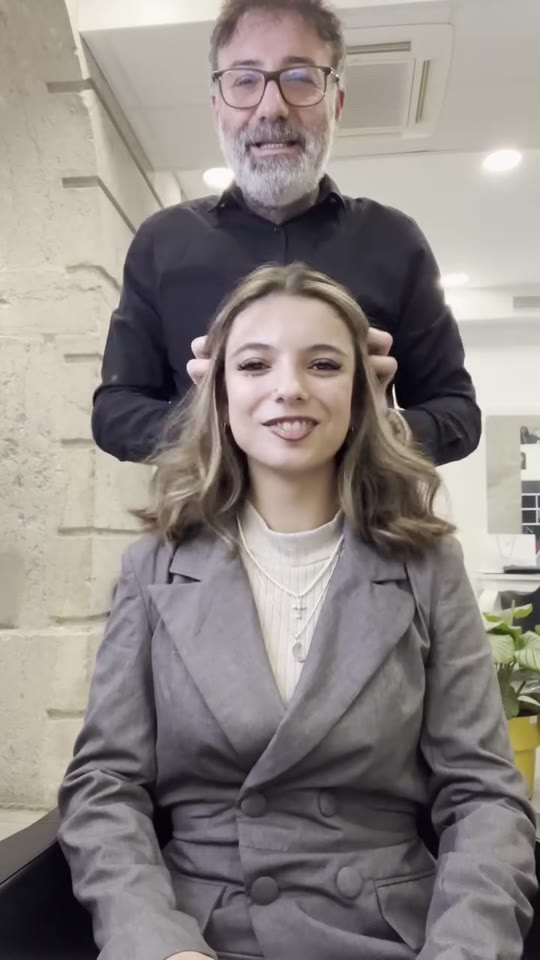
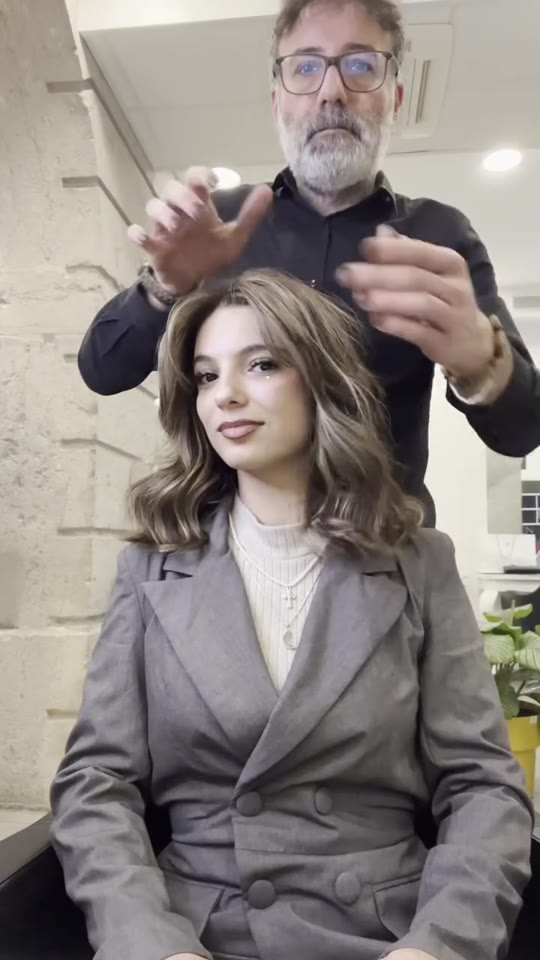
Prioritize client-selected photographs and improve authentic before-after framing

diff --git a/index.html b/index.html
@@ -2,8 +2,8 @@
 <html lang="fr"><head><meta charset="utf-8"><meta name="viewport" content="width=device-width,initial-scale=1"><meta name="robots" content="noindex,nofollow"><meta name="theme-color" content="#F7F5F0"><title>Studio Bellecour — Coiffeur à Lyon 2</title><meta name="description" content="Studio Bellecour, salon de coiffure mixte à Lyon 2. Coupes, couleurs, balayages : prestations, tarifs et rendez-vous sur Planity."><link rel="icon" href="assets/favicon.svg"><link rel="stylesheet" href="style.css"><script src="script.js" defer></script></head>
 <body><a class="skip" href="#contenu">Aller au contenu</a>
 <header class="header"><a class="brand" href="#" aria-label="Studio Bellecour, accueil">Studio Bellecour</a><button class="menu-toggle" type="button" aria-expanded="false" aria-controls="main-navigation">Menu <span class="menu-icon" aria-hidden="true"></span></button><nav id="main-navigation" aria-label="Navigation principale"><a href="#realisations">Les réalisations</a><a href="#murat">Murat</a><a href="#salon">Le salon</a><a href="#prestations">Les prestations</a><a href="#avis">Avis clients</a><a href="#contact">Contact</a></nav></header>
-<main id="contenu"><section class="hero" aria-labelledby="title"><div class="hero-copy"><p class="location">Studio Bellecour · Lyon 2</p><h1 id="title">Coiffure & couleur<br>à Bellecour.</h1><p class="intro">Couleur, coupe technique et mariage.<br>Salon femmes et hommes à Lyon 2.</p><a class="rating" href="#avis"><span aria-hidden="true">★</span> <strong>4,9/5</strong> · 892 avis sur Planity</a><a class="button hero-book" href="https://www.planity.com/studio-bellecour-69002-lyon">Prendre rendez-vous</a><p class="booking-caption">Réservation en ligne sur Planity</p></div><figure class="hero-photo hero-work"><a class="realisation-link" href="https://www.instagram.com/studio_bellecour/reel/DFfxcyAqeKJ/" aria-label="Voir cette réalisation sur Instagram"><img src="assets/realisation-accueil.jpg" width="360" height="640" alt="Cliente présentant son coiffage mi-long et ses reflets clairs au Studio Bellecour" fetchpriority="high"></a></figure></section>
-<section id="realisations" class="realisations section" aria-labelledby="work-title"><div class="section-heading"><h2 id="work-title">Réalisations au salon</h2></div><div class="work-grid"><a class="work-card" href="https://www.instagram.com/studio_bellecour/reel/DWOxvY-in0C/" aria-label="Voir la vidéo Instagram : Volume & mouvement"><figure><div class="work-image"><img src="assets/realisation-1.jpg" width="360" height="640" loading="lazy" alt="Coiffage long avec volume et mèches encadrant le visage"><span class="video-play" aria-hidden="true"><svg viewBox="0 0 24 24" fill="currentColor"><path d="m9 6 9 6-9 6Z"/></svg></span></div><figcaption><span>Volume & mouvement</span><span class="video-label">Voir la vidéo</span></figcaption></figure></a><a class="work-card" href="https://www.instagram.com/studio_bellecour/reel/DeJjcFiuilz/" aria-label="Voir la vidéo Instagram : Blond & ondulations"><figure><div class="work-image"><img src="assets/realisation-6.jpg" width="720" height="1280" loading="lazy" alt="Cheveux blonds longs et ondulés, présentés au salon avec le coiffeur"><span class="video-play" aria-hidden="true"><svg viewBox="0 0 24 24" fill="currentColor"><path d="m9 6 9 6-9 6Z"/></svg></span></div><figcaption><span>Blond & ondulations</span><span class="video-label">Voir la vidéo</span></figcaption></figure></a><a class="work-card" href="https://www.instagram.com/studio_bellecour/reel/DbLRGwOKB_G/" aria-label="Voir la vidéo Instagram : reflets bruns"><figure><div class="work-image"><img src="assets/realisation-9.jpg" width="720" height="1280" loading="lazy" alt="Coiffage long brun avec reflets et ondulations réalisé au salon"><span class="video-play" aria-hidden="true"><svg viewBox="0 0 24 24" fill="currentColor"><path d="m9 6 9 6-9 6Z"/></svg></span></div><figcaption><span>Reflets bruns</span><span class="video-label">Voir la vidéo</span></figcaption></figure></a></div><div class="transformation"><div class="transformation-heading"><h3>Avant / Après</h3><a class="text-link" href="https://www.instagram.com/studio_bellecour/reel/DFfxcyAqeKJ/">Voir la vidéo</a></div><div class="transformation-pair"><figure><img src="assets/transformation-avant.jpg" width="540" height="960" loading="lazy" alt="Avant : la cliente avec ses cheveux longs et bruns, au début de la vidéo"><figcaption>Avant</figcaption></figure><figure><img src="assets/transformation-apres.jpg" width="540" height="960" loading="lazy" alt="Après : la même cliente avec une coupe plus courte et des reflets clairs"><figcaption>Après</figcaption></figure></div></div></section><section id="murat" class="murat section" aria-labelledby="murat-title"><figure class="murat-photo"><img src="assets/murat-portrait.jpg" width="720" height="960" loading="lazy" alt="Murat assis dans un fauteuil bordeaux au salon Studio Bellecour"></figure><div class="murat-copy"><p class="section-label">Votre coiffeur</p><h2 id="murat-title">Murat</h2><p>Murat est un coiffeur chaleureux, souriant et plein d’humour. Il prend le temps de comprendre vos envies et de vous conseiller sur votre coupe ou votre couleur.</p><p>La couleur, la coupe technique et les coiffures de mariage sont au cœur du travail de Murat et de son équipe.</p></div></section><section id="salon" class="salon section" aria-labelledby="salon-title"><div class="salon-heading"><h2 id="salon-title">Le salon</h2><p>Murat et son équipe vous accueillent au rez-de-chaussée de l’hôtel de l’Europe, à proximité de la place Bellecour.</p></div><div class="gallery"><img src="assets/salon-accueil.jpg" width="1200" height="630" loading="lazy" alt="L’accueil du salon, les plantes et les arches en pierre"><img src="assets/salon-arches.jpg" width="773" height="460" loading="lazy" alt="Les postes de coiffage et la cour de l’hôtel de l’Europe"></div></section>
+<main id="contenu"><section class="hero" aria-labelledby="title"><div class="hero-copy"><p class="location">Studio Bellecour · Lyon 2</p><h1 id="title">Coiffure & couleur<br>à Bellecour.</h1><p class="intro">Couleur, coupe technique et mariage.<br>Salon femmes et hommes à Lyon 2.</p><a class="rating" href="#avis"><span aria-hidden="true">★</span> <strong>4,9/5</strong> · 892 avis sur Planity</a><a class="button hero-book" href="https://www.planity.com/studio-bellecour-69002-lyon">Prendre rendez-vous</a><p class="booking-caption">Réservation en ligne sur Planity</p></div><figure class="hero-photo hero-work"><div class="selection-crop selection-hero"><img src="assets/selection-accueil.jpg" width="716" height="840" fetchpriority="high" alt="Cliente avec de longs cheveux blonds ondulés, parmi les réalisations sélectionnées du salon"></div></figure></section>
+<section id="realisations" class="realisations section" aria-labelledby="work-title"><div class="section-heading"><h2 id="work-title">Réalisations au salon</h2></div><div class="work-grid"><figure class="work-card selection-card"><div class="selection-crop selection-blond"><img src="assets/selection-blond.jpg" width="640" height="802" loading="lazy" alt="Cliente souriante en blouse blanche, aux cheveux blonds ondulés"></div><figcaption><span>Blond & mouvement</span></figcaption></figure><a class="work-card" href="https://www.instagram.com/studio_bellecour/reel/DeJjcFiuilz/" aria-label="Voir la vidéo Instagram : Blond & ondulations"><figure><div class="work-image"><img src="assets/realisation-6.jpg" width="720" height="1280" loading="lazy" alt="Cheveux blonds longs et ondulés, présentés au salon avec le coiffeur"><span class="video-play" aria-hidden="true"><svg viewBox="0 0 24 24" fill="currentColor"><path d="m9 6 9 6-9 6Z"/></svg></span></div><figcaption><span>Blond & ondulations</span><span class="video-label">Voir la vidéo</span></figcaption></figure></a><a class="work-card" href="https://www.instagram.com/studio_bellecour/reel/DbLRGwOKB_G/" aria-label="Voir la vidéo Instagram : reflets bruns"><figure><div class="work-image"><img src="assets/realisation-9.jpg" width="720" height="1280" loading="lazy" alt="Coiffage long brun avec reflets et ondulations réalisé au salon"><span class="video-play" aria-hidden="true"><svg viewBox="0 0 24 24" fill="currentColor"><path d="m9 6 9 6-9 6Z"/></svg></span></div><figcaption><span>Reflets bruns</span><span class="video-label">Voir la vidéo</span></figcaption></figure></a></div><div class="transformation"><div class="transformation-heading"><h3>Avant / Après</h3><a class="text-link" href="https://www.instagram.com/studio_bellecour/reel/DFfxcyAqeKJ/">Voir la vidéo</a></div><div class="transformation-pair"><figure><img src="assets/transformation-avant.jpg" width="540" height="960" loading="lazy" alt="Avant : la cliente avec ses cheveux longs et bruns, au début de la vidéo"><figcaption>Avant</figcaption></figure><figure><img src="assets/transformation-apres.jpg" width="540" height="960" loading="lazy" alt="Après : la même cliente avec une coupe plus courte et des reflets clairs"><figcaption>Après</figcaption></figure></div></div></section><section id="murat" class="murat section" aria-labelledby="murat-title"><figure class="murat-photo"><img src="assets/murat-portrait.jpg" width="720" height="960" loading="lazy" alt="Murat assis dans un fauteuil bordeaux au salon Studio Bellecour"></figure><div class="murat-copy"><p class="section-label">Votre coiffeur</p><h2 id="murat-title">Murat</h2><p>Murat est un coiffeur chaleureux, souriant et plein d’humour. Il prend le temps de comprendre vos envies et de vous conseiller sur votre coupe ou votre couleur.</p><p>La couleur, la coupe technique et les coiffures de mariage sont au cœur du travail de Murat et de son équipe.</p></div></section><section id="salon" class="salon section" aria-labelledby="salon-title"><div class="salon-heading"><h2 id="salon-title">Le salon</h2><p>Murat et son équipe vous accueillent au rez-de-chaussée de l’hôtel de l’Europe, à proximité de la place Bellecour.</p></div><div class="gallery"><img src="assets/salon-accueil.jpg" width="1200" height="630" loading="lazy" alt="L’accueil du salon, les plantes et les arches en pierre"><img src="assets/salon-arches.jpg" width="773" height="460" loading="lazy" alt="Les postes de coiffage et la cour de l’hôtel de l’Europe"></div></section>
 <section id="avis" class="client-reviews section" aria-labelledby="avis-title"><div class="section-heading"><h2 id="avis-title">Avis clients</h2><a class="text-link" href="https://www.planity.com/studio-bellecour-69002-lyon">Lire les avis sur Planity<svg class="external-icon" viewBox="0 0 20 20" fill="none" stroke="currentColor" stroke-width="1.5" aria-hidden="true"><path d="M5 15 15 5M6 5h9v9"/></svg></a></div><div class="reviews-layout"><div class="review-score"><strong>4,9<span>/5</span></strong><p>Qualité de la prestation</p><p>Note globale : 4,9/5<br>892 avis sur Planity</p></div><div class="review-quotes"><figure><blockquote>« La coupe et le coiffage étaient sublimes. »</blockquote><figcaption>Extrait d’un avis Planity · 28 octobre 2026</figcaption></figure><figure><blockquote>« Mention spécial pour le brushing de star. »</blockquote><figcaption>Extrait d’un avis Planity · 14 octobre 2026</figcaption></figure></div></div></section><section id="prestations" class="services section" aria-labelledby="services-title"><div class="section-heading"><h2 id="services-title">Prestations & tarifs</h2></div><div class="tariff-grid"><details id="tarifs-coupe" class="tariff-category" open><summary><span class="category-label"><span class="category-title">Coupe & brushing</span><span class="category-description">Coupes, coiffage et longueurs</span></span><span class="category-toggle" aria-hidden="true">+</span></summary><div class="tariff-content"><div class="tariff-group"><div class="tariff-group-heading"><h3>Brushing</h3><p>Shampooing et soin inclus · 30 min</p></div><dl><div class="price-row"><dt>Cheveux courts</dt><dd>38 €</dd></div><div class="price-row"><dt>Cheveux mi-longs</dt><dd>45 €</dd></div><div class="price-row"><dt>Cheveux XXL</dt><dd>52 €</dd></div></dl></div><div class="tariff-group"><div class="tariff-group-heading"><h3>Coupe & brushing</h3><p>Shampooing et soin inclus · 45 min</p></div><dl><div class="price-row"><dt>Cheveux courts</dt><dd>57 €</dd></div><div class="price-row"><dt>Cheveux mi-longs / longs</dt><dd>67 €</dd></div><div class="price-row"><dt>Cheveux XXL</dt><dd>77 €</dd></div></dl></div><div class="tariff-group"><div class="tariff-group-heading"><h3>Frange</h3></div><dl><div class="price-row"><dt>Coupe de frange & coiffage<span>15 min</span></dt><dd>10 €</dd></div></dl></div></div></details><details id="tarifs-couleur" class="tariff-category"><summary><span class="category-label"><span class="category-title">Couleur & balayage</span><span class="category-description">Coloration, balayage, ombré et patine</span></span><span class="category-toggle" aria-hidden="true">+</span></summary><div class="tariff-content"><div class="tariff-group"><div class="tariff-group-heading"><h3>Couleur</h3></div><dl><div class="price-row"><dt>Couleur racines<span>1 h 15</span></dt><dd>dès 49 €</dd></div><div class="price-row"><dt>Couleur & brushing<span>1 h 45</span></dt><dd>dès 99 €</dd></div><div class="price-row"><dt>Couleur, coupe & brushing<span>2 h</span></dt><dd>dès 119 €</dd></div></dl></div><div class="tariff-group"><div class="tariff-group-heading"><h3>Balayage & ombré</h3><p>Coupe et brushing inclus · 3 h</p></div><dl><div class="price-row"><dt>Balayage</dt><dd>dès 280 €</dd></div><div class="price-row"><dt>Ombré hair</dt><dd>dès 280 €</dd></div></dl></div><div class="tariff-group"><div class="tariff-group-heading"><h3>Autres prestations techniques</h3></div><dl><div class="price-row"><dt>Patine<span>1 h 15</span></dt><dd>dès 45 €</dd></div><div class="price-row"><dt>Décoloration<span>1 h 30</span></dt><dd>dès 250 €</dd></div></dl></div></div></details><details id="tarifs-homme" class="tariff-category"><summary><span class="category-label"><span class="category-title">Homme</span><span class="category-description">Coupe et soin</span></span><span class="category-toggle" aria-hidden="true">+</span></summary><div class="tariff-content"><div class="tariff-group"><dl><div class="price-row"><dt>Coupe homme<span>30 min</span></dt><dd>33 €</dd></div><div class="price-row"><dt>Coupe & soin · cheveux longs<span>30 min</span></dt><dd>38 €</dd></div></dl></div></div></details><details id="tarifs-soins" class="tariff-category"><summary><span class="category-label"><span class="category-title">Soins</span><span class="category-description">À ajouter à votre prestation</span></span><span class="category-toggle" aria-hidden="true">+</span></summary><div class="tariff-content"><div class="tariff-group"><dl><div class="price-row"><dt>Soin profond Redken<span>45 min</span></dt><dd>dès 50 €</dd></div><div class="price-row"><dt>Soin brillance<span>5 min</span></dt><dd>10 €</dd></div></dl></div></div></details><details id="tarifs-etudiants" class="tariff-category"><summary><span class="category-label"><span class="category-title">Étudiants</span><span class="category-description">Moins de 25 ans</span></span><span class="category-toggle" aria-hidden="true">+</span></summary><div class="tariff-content"><div class="tariff-group"><div class="tariff-group-heading"><h3>Coupes homme</h3><p>30 min</p></div><dl><div class="price-row"><dt>Coupe homme</dt><dd>30 €</dd></div><div class="price-row"><dt>Coupe & soin · cheveux longs</dt><dd>34 €</dd></div></dl></div><div class="tariff-group"><div class="tariff-group-heading"><h3>Coupe & brushing</h3><p>Shampooing et soin inclus · 45 min</p></div><dl><div class="price-row"><dt>Cheveux courts</dt><dd>50 €</dd></div><div class="price-row"><dt>Cheveux mi-longs / longs</dt><dd>60 €</dd></div><div class="price-row"><dt>Cheveux XXL</dt><dd>70 €</dd></div></dl></div></div></details><details id="tarifs-enfants" class="tariff-category"><summary><span class="category-label"><span class="category-title">Enfants</span><span class="category-description">Tarifs selon l’âge</span></span><span class="category-toggle" aria-hidden="true">+</span></summary><div class="tariff-content"><div class="tariff-group"><div class="tariff-group-heading"><p>30 min</p></div><dl><div class="price-row"><dt>Coupe fille<span>Moins de 10 ans</span></dt><dd>35 €</dd></div><div class="price-row"><dt>Coupe garçon<span>Moins de 10 ans</span></dt><dd>25 €</dd></div><div class="price-row"><dt>Coupe garçon<span>Moins de 16 ans</span></dt><dd>28 €</dd></div></dl></div></div></details><details id="tarifs-evenements" class="tariff-category"><summary><span class="category-label"><span class="category-title">Coiffures événement</span><span class="category-description">Coiffage et mariage</span></span><span class="category-toggle" aria-hidden="true">+</span></summary><div class="tariff-content"><div class="tariff-group"><dl><div class="price-row"><dt>Chignon mariage<span>2 h</span></dt><dd>250 €</dd></div><div class="price-row"><dt>Coiffure événement<span>1 h</span></dt><dd>85 €</dd></div></dl></div></div></details><details id="tarifs-extensions" class="tariff-category"><summary><span class="category-label"><span class="category-title">Extensions</span><span class="category-description">Sur devis</span></span><span class="category-toggle" aria-hidden="true">+</span></summary><div class="tariff-content"><div class="tariff-group"><dl><div class="price-row"><dt>Extensions<span>30 min</span></dt><dd>Sur devis</dd></div></dl></div></div></details></div></section>
 <section id="contact" class="contact section" aria-labelledby="contact-title"><div class="contact-intro"><p class="section-label">Studio Bellecour · Lyon 2</p><h2 id="contact-title">Rendez-vous & contact</h2><address>1 rue Colonel Chambonnet<br>69002 Lyon</address></div><div class="contact-actions"><div class="booking-card"><h3>Réserver au salon</h3><p>Choisissez votre prestation et votre créneau sur Planity.</p><a class="button final-book" href="https://www.planity.com/studio-bellecour-69002-lyon">Prendre rendez-vous</a></div><div class="contact-links"><a class="contact-link" href="tel:+33478820581"><svg viewBox="0 0 24 24" fill="none" stroke="currentColor" stroke-width="1.5" aria-hidden="true"><path d="M7 3H4a1 1 0 0 0-1 1c0 9.4 7.6 17 17 17a1 1 0 0 0 1-1v-3l-5-2-2 2a13 13 0 0 1-7-7l2-2-2-5Z"/></svg><span><strong>Appeler le salon</strong><span>04 78 82 05 81</span></span></a><a class="contact-link" href="https://www.instagram.com/studio_bellecour/"><svg viewBox="0 0 24 24" fill="none" stroke="currentColor" stroke-width="1.5" aria-hidden="true"><rect x="3" y="3" width="18" height="18" rx="5"/><circle cx="12" cy="12" r="4"/><circle cx="17.5" cy="6.5" r=".8" fill="currentColor" stroke="none"/></svg><span><strong>Instagram</strong><span>@studio_bellecour</span></span></a><a class="contact-link" href="https://www.google.com/maps/dir/?api=1&destination=Studio+Bellecour+1+Rue+Colonel+Chambonnet+69002+Lyon"><svg viewBox="0 0 24 24" fill="none" stroke="currentColor" stroke-width="1.5" aria-hidden="true"><path d="M19 10c0 5-7 11-7 11S5 15 5 10a7 7 0 1 1 14 0Z"/><circle cx="12" cy="10" r="2.5"/></svg><span><strong>Itinéraire</strong><span>Ouvrir dans Google Maps</span></span></a></div></div></section></main>
 <footer><a class="brand" href="#">Studio Bellecour</a><button id="legal-open" type="button">À propos de cet aperçu</button></footer>

diff --git a/style.css b/style.css
@@ -28,3 +28,8 @@
 .hero-work .realisation-link{display:block;border-radius:50% 50% 4px 4px / 38% 38% 4px 4px;overflow:hidden}.hero-work img{border-radius:0;object-position:50% 45%}@media(max-width:800px){.hero-work .realisation-link{border-radius:50% 50% 4px 4px / 38% 38% 4px 4px}.hero-work img{border-radius:0;object-position:50% 45%}}
 
 .transformation{max-width:640px;margin:48px auto 0}.transformation-heading{display:flex;justify-content:space-between;align-items:center;gap:24px;margin-bottom:20px}.transformation-heading h3{font:28px/1.3 Georgia,serif;letter-spacing:-.02em}.transformation-pair{display:grid;grid-template-columns:minmax(0,1fr) minmax(0,1fr);gap:20px}.transformation-pair img{width:100%;height:auto;aspect-ratio:9/16;object-fit:cover;border-radius:4px}.transformation-pair figcaption{font-size:17px;margin-top:12px;font-weight:600}@media(max-width:800px){.transformation{margin-top:36px}.transformation-pair{gap:12px}.transformation-heading{gap:16px;margin-bottom:16px}.transformation-heading h3{font-size:25px}.transformation-heading .text-link{font-size:16px}.transformation-pair figcaption{font-size:16px;margin-top:10px}}
+
+/* User-selected photographs: crop only in layout; faces and hair are unretouched. */
+.selection-crop{position:relative;overflow:hidden}.hero-work .selection-hero{aspect-ratio:615/770;border-radius:50% 50% 4px 4px / 38% 38% 4px 4px}.hero-work .selection-hero img{position:absolute;width:116.423%;height:auto;max-width:none;aspect-ratio:auto;left:-.813%;top:-7.273%;object-fit:initial;border-radius:0;animation:none}.selection-blond{aspect-ratio:610/740;border-radius:4px}.work-grid .selection-blond img{position:absolute;width:104.918%;height:auto;max-width:none;aspect-ratio:auto;left:-.82%;top:-7.027%;object-fit:initial}.work-grid>.selection-card{min-width:0}.selection-card figcaption{margin-top:16px}@media(max-width:800px){.work-grid>.selection-card{flex:0 0 82%;scroll-snap-align:start}.hero-work .selection-hero{aspect-ratio:615/770}.hero-work .selection-hero img{aspect-ratio:auto}}
+
+.transformation-pair img{aspect-ratio:4/5;object-position:50% 70%}.transformation-pair figure:last-child figcaption{color:var(--wine)}.transformation-pair figure:last-child img{outline:1px solid var(--wine);outline-offset:3px}

diff --git a/RECHERCHE-DESIGN.md b/RECHERCHE-DESIGN.md
@@ -147,3 +147,9 @@ Les aperçus Instagram intégrés publics (/p/SHORTCODE/embed/captioned/) donnen
 
 ## Avant / Après simple — DFfxcyAqeKJ
 Vidéo originale publique récupérée via les données de son aperçu Instagram intégré, sans connexion. Durée mesurée 26,027 s. Images échantillonnées et inspectées sur l’ensemble : début avec cheveux longs bruns puis résultat plus court avec reflets clairs ; même cliente, tenue grise, même salon. Deux images extraites à 1 s et 9 s, sans retouche des cheveux/couleurs. Présentation statique côte à côte, libellés Avant et Après, lien vers le reel ; aucun curseur, lecteur, iframe ou script supplémentaire. L’essai de lecteur Instagram au clic sur la carte brune a été retiré pour respecter la demande de simplicité. Vidéo de 5,4 Mo conservée uniquement comme source de travail temporaire, non embarquée sur le site.
+
+## Sélection du client prioritaire — recadrages autorisés
+Instruction explicite : privilégier les captures fournies et les recadrer si aucun élément gênant ne reste. Accueil : capture 00.48.51 (cliente seule, longs cheveux blonds), zone x5 y56 largeur615 hauteur770, arc conservé. Première réalisation : capture 00.47.33 (cliente souriante, blouse blanche), zone x5 y52 largeur610 hauteur740. Captures converties en JPEG pour le poids, pixels affichés via recadrage CSS ; aucun visage ni cheveu retouché ou généré. Les deux réalisations originales retrouvées et validées restent présentes avec leurs liens exacts. Les deux nouvelles photos n’ont pas de lien vidéo attribué tant que les publications ne sont pas identifiées avec certitude. Avant/après authentique DFfxcyAqeKJ conservé.
+
+### Choix final des images Avant / Après
+Images remplacées par 2,5 s (état initial, cheveux longs bruns, expression neutre) et 20,8 s (résultat plus court, reflets clairs, légère vue de trois quarts). Même cliente et même vidéo ; aucune retouche ni modification d’éclairage/couleur. Recadrage CSS identique 4/5 et position verticale70% pour concentrer l’attention sur la cliente et sa coiffure plutôt que le plafond. Après souligné par un filet bordeaux et son libellé, sans rendre artificiellement l’Avant plus terne.
